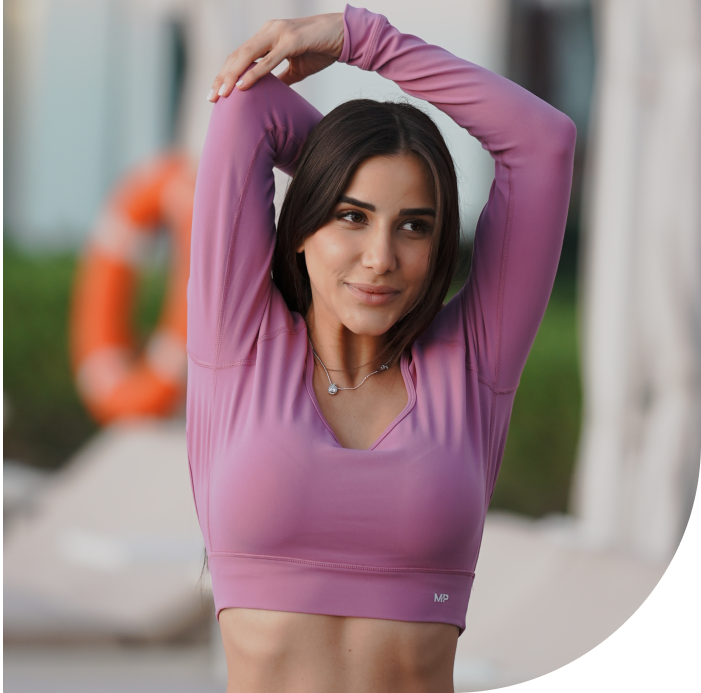
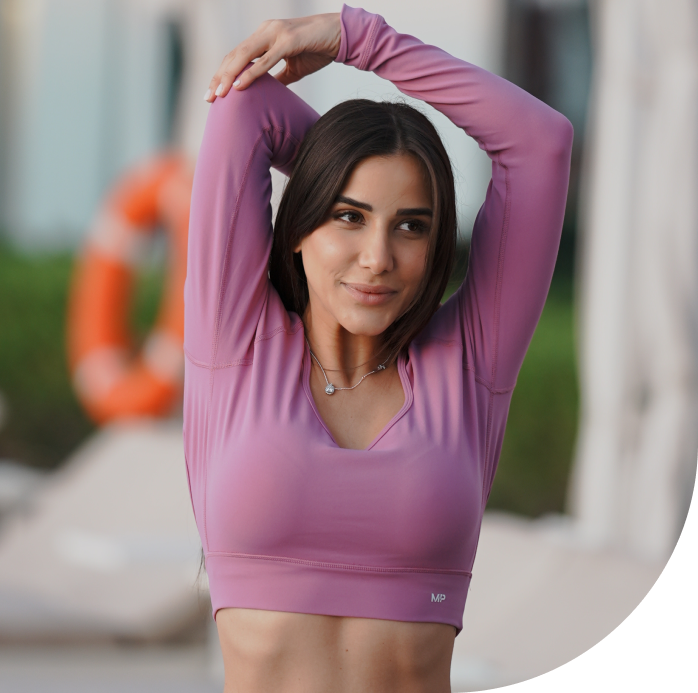
responsive

diff --git a/weight-loss.html b/weight-loss.html
@@ -58,16 +58,20 @@
 
 		<section class="for-mobile for-smallscreen">
 			<div class="container">
+				<div class="logo">
+					<img src="images/Logo.svg" alt="">
+				</div>
 				<div class="page-hero-content">
 					<h1>Your weight loss. Simplified</h1>
 					<p>100% online, personalized, and judgment-free</p>
 					<div class="gobal-btn">
 						<a href="#" class="openPopup"><i class="fa-solid fa-circle"></i> Book a free consultation</a>
 					</div>
-					<div class="wight-img">
-						<img src="images/whight-loss/whight-hero.png" alt="">
-					</div>
+					
 				</div>
+			</div>
+			<div class="wight-img">
+				<img src="images/whight-loss/whight-hero.png" alt="">
 			</div>
 			
 	
@@ -81,7 +85,8 @@
 	<section class="section-padding wight-loos-programe">
 		<div class="container">
 			<div class="section-title">
-				<h2 class="wight-loos-heading">Fitverse weight loss program</h2>
+				<h2 class="wight-loos-heading">Shred - Lose the weight for good
+				</h2>
 				<p>We offers personalized fitness coaching and nutrition guidance by fitness professionals & certified
 					nutritionist, ensuring you reach your weight loss goals effectively and easily.</p>
 			</div>
@@ -120,7 +125,7 @@
 			</div>
 		</div>
 	</section>
-	<section class="section-padding guide">
+	<section class="section-padding guide" style="background: url(images/whight-loss/guide.png) center center no-repeat;">
 		<div class="container">
 			<div class="midel-text">
 				<h2 class="wight-loos-heading">Get clear guidance from your coaches to lose the weight for life</h2>
@@ -190,18 +195,14 @@
 						<div class="price-list">
 							<p>1-on-1 session with nutritionist</p>
 						</div>
-						<div class="price-list">
-							<p>Lifestyle guidance</p>
-						</div>
+						
 						<div class="price-list">
 							<p>Adaptive meal plan</p>
 						</div>
 						<div class="price-list">
 							<p>Adaptive cardio plan</p>
 						</div>
-						<div class="price-list">
-							<p>Daily checkins from coach</p>
-						</div>
+						
 						<div class="price-list">
 							<p>Unlimited chat support</p>
 						</div>
@@ -228,12 +229,7 @@
 						<div class="price-list">
 							<p>1 per month</p>
 						</div>
-						<div class="price-list">
-							<p><img src="images/whight-loss/check.png" alt=""></p>
-						</div>
-						<div class="price-list">
-							<p><img src="images/whight-loss/check.png" alt=""></p>
-						</div>
+						
 						<div class="price-list">
 							<p><img src="images/whight-loss/check.png" alt=""></p>
 						</div>
@@ -272,12 +268,7 @@
 						<div class="price-list">
 							<p>2 per month</p>
 						</div>
-						<div class="price-list">
-							<p><img src="images/whight-loss/check.png" alt=""></p>
-						</div>
-						<div class="price-list">
-							<p><img src="images/whight-loss/check.png" alt=""></p>
-						</div>
+						
 						<div class="price-list">
 							<p><img src="images/whight-loss/check.png" alt=""></p>
 						</div>

diff --git a/css/style.css b/css/style.css
@@ -1799,6 +1799,9 @@ section.problem-slove.section-padding{
 	color: #000;
 	font-weight: 600;
 }
+.wight-loos-programe h2{
+	margin-bottom: 15px;
+}
 .hero-whight-content .gobal-btn a i{
 	color: #000;
 }
@@ -1813,11 +1816,11 @@ section.problem-slove.section-padding{
 	padding: 15px;
 }
 .guide{
-	background: url(../images/whight-loss/guide.png) center center no-repeat;
-	background-size: cover;
+	background-size: cover!important;
 	height: 750px;
 	display: flex;
 	align-items: center;
+	border-radius: 238.657px 0 0;
 }
 .midel-text{
 	text-align: center;
@@ -1887,6 +1890,7 @@ section.problem-slove.section-padding{
 	padding: 50px 0;
 	width: 100%;
 	background: #F0EBDD;
+	border-radius: 0 150px 0 0;
 }
 .action{
 	width: 100%;
@@ -2023,13 +2027,14 @@ section.problem-slove.section-padding{
 .wight-hero{
 	width: 100%;
 	position: relative;
+	display: flex;
+	align-items: center;
 	background: #F0EBDD;
 	height: 693px;
 	border-radius: 0px 0px 250px 0px;
 }
 .wight-hero-content{
 	width: 50%;
-	height: 60vh;
 	display: flex;
 	align-items: center;
 }
@@ -2059,6 +2064,8 @@ section.problem-slove.section-padding{
 	color: #172B3E;
 }
 .wight-hero .logo{
+	position: absolute;
+	top: 10px;
 	padding: 20px 0;
 }
 section.wight-price.section-padding {

diff --git a/css/responsive.css b/css/responsive.css
@@ -608,6 +608,27 @@
         padding: 6px 8px;
         font-size: 13px;
     }
+    .for-smallscreen .logo{
+        margin-top: 20px;
+    }
+    .for-smallscreen .page-hero-content {
+        text-align: left;
+    }
+    .for-smallscreen .page-hero-content p{
+        padding: 15px 0 10px;
+    }
+    .guide{
+        height: auto;
+        padding-top: 100px;
+        border-radius: 138.657px 0 0;
+        background-position-x: -872px;
+    }
+    .feature {
+        padding: 100px 0 50px;
+        border-radius: 0 121px 0 0;
+    }
+
+
 
 }
 
